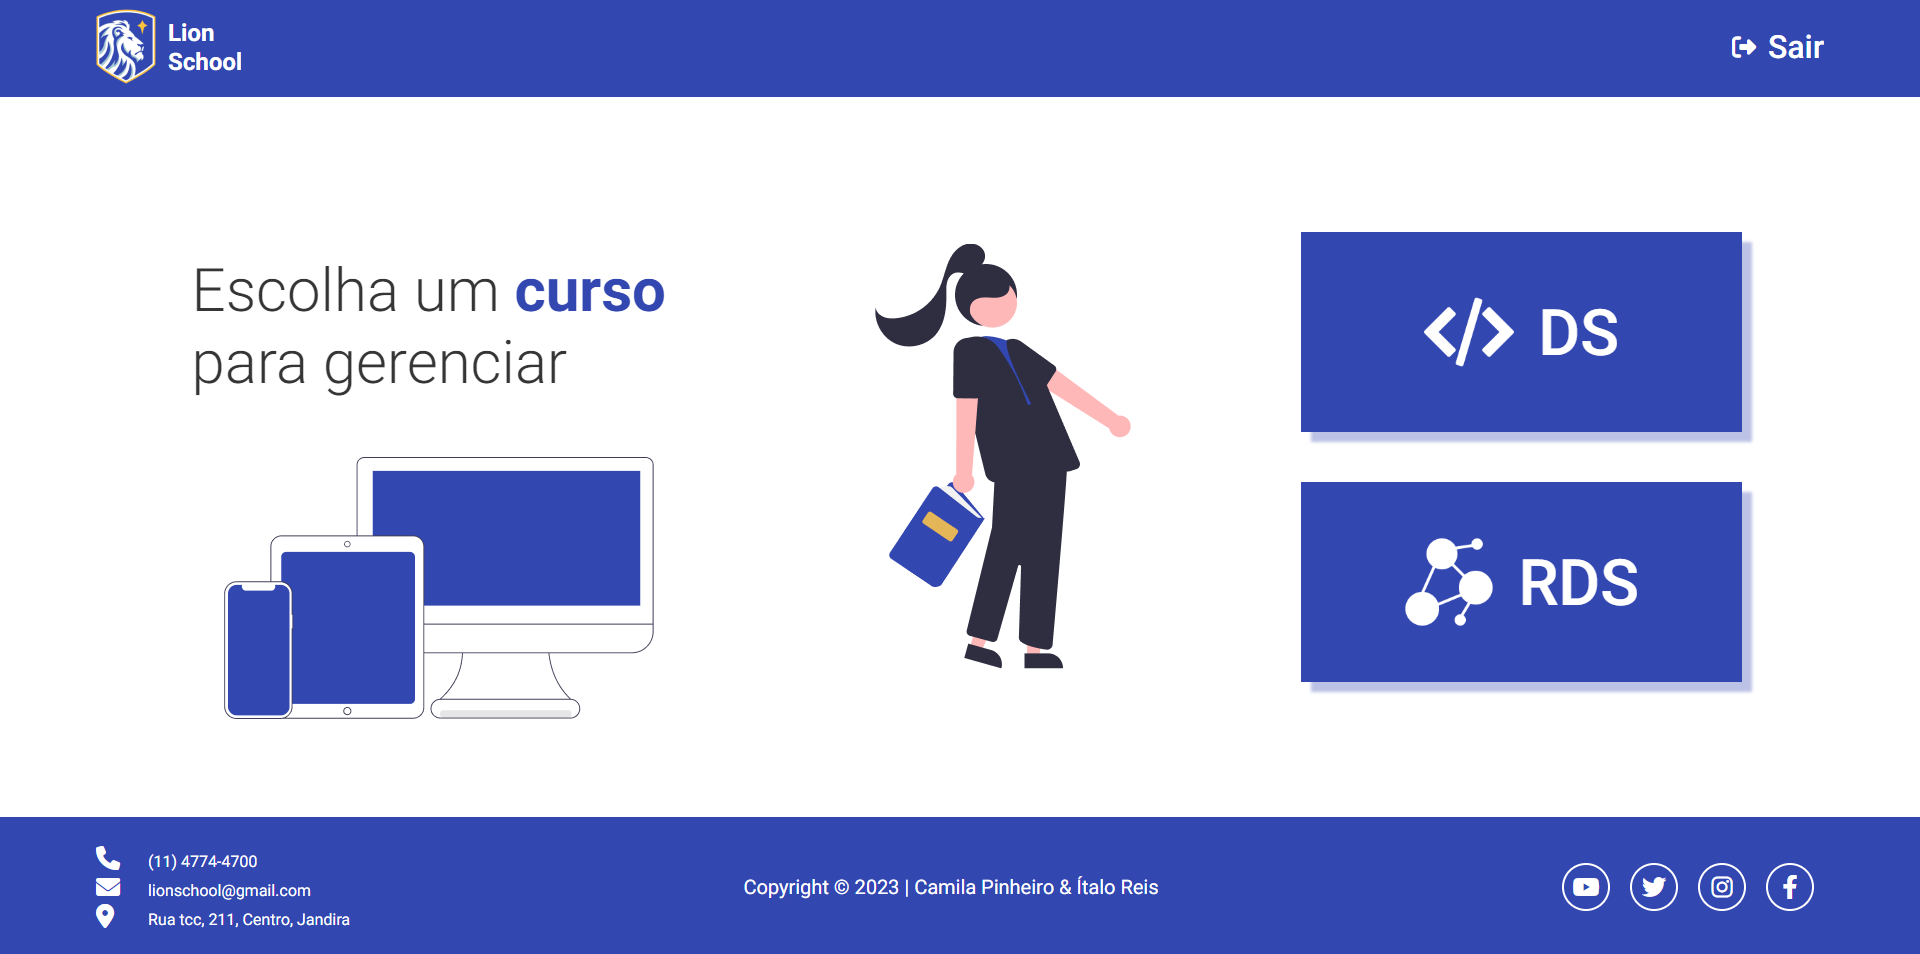
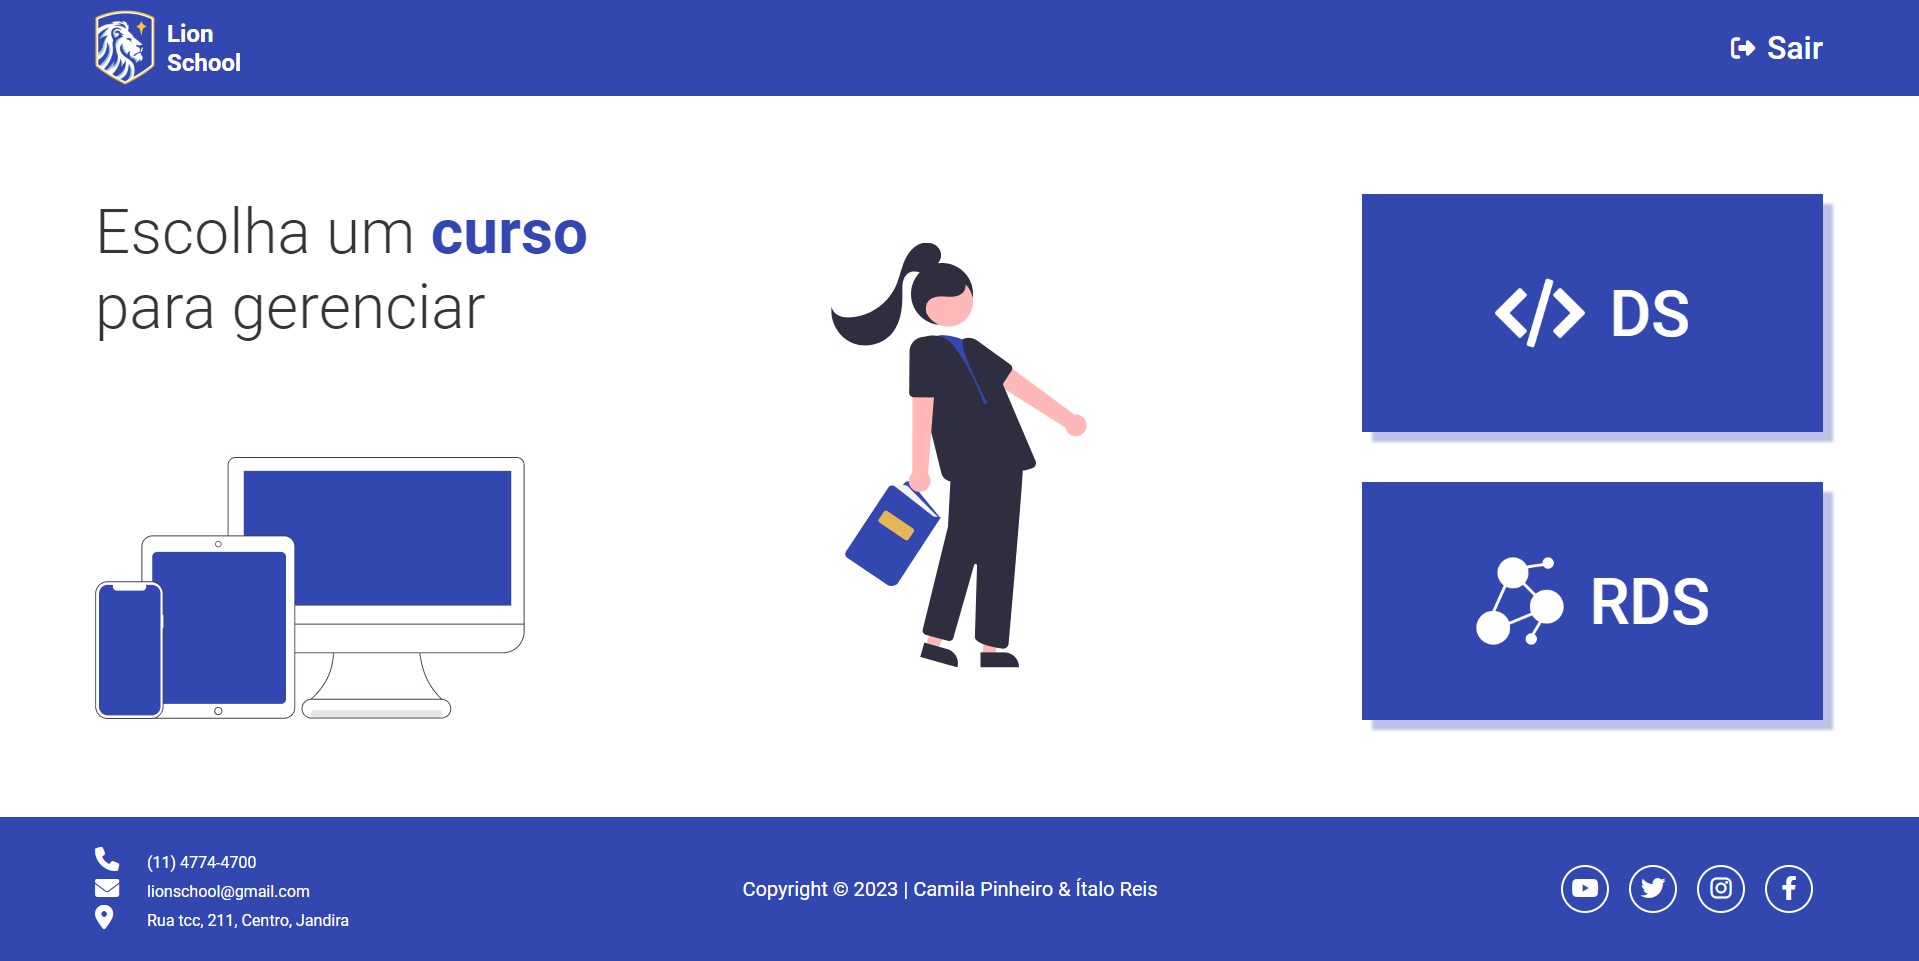
Ajustando main da página Home

diff --git a/Front-End/css/homeMain.css b/Front-End/css/homeMain.css
@@ -3,21 +3,23 @@ main{
     padding: 98px 96px;
     display: grid;
     place-items: center;
-    grid-template-columns: 40% 25% 35%;
+    grid-template-columns: 40% 20% 40%;
     grid-template-rows: 1fr 1fr;
     grid-template-areas:
      "title image2 card"
      "image1 image2 card";
+     justify-content: space-between;
 }
 
 .title{
     max-width: 500px;
+    grid-area: title;
+    place-self: start start;
 }
 
 .title h1{
-    grid-area: title;
     color: #353535;
-    font-size: 3.75rem;
+    font-size: 3.9rem;
     font-weight: 300;
 }
 
@@ -28,15 +30,18 @@ h1 span{
 
 .devices-image{
     grid-area: image1;
+    place-self: center start;
 }
 
 .student-image{
     grid-area: image2;
+    place-self: center center;
 }
 
 
 #buttons-options{
     grid-area: card;
+    place-self: start end;
     display: flex;
     flex-direction: column;
     flex-wrap: wrap;
@@ -44,8 +49,8 @@ h1 span{
 }
 
 button{
-    width: 23vw;
-    height: 200px;
+    width: 24vw;
+    height: 238px;
     background-color: var(--primary-color);
     border: none;
     transition: all 400ms ease-in-out;

diff --git a/Front-End/js/graphic.js b/Front-End/js/graphic.js
@@ -23,6 +23,7 @@ const graphicStudent = (dados) => {
     const spanDisciplines = document.createElement("span");
     spanDisciplines.classList.add("rotate");
     spanDisciplines.classList.add("span-bar");
+    spanDisciplines.classList.add("color-blue");
 
      const textSplit = dados.disciplinas[index].nome.split(" ");
      if (textSplit.length == 2) {
@@ -46,15 +47,15 @@ const graphicStudent = (dados) => {
     if (bar.value > 50) {
       bar.classList.add("progress-bar-blue");
       span.classList.add("color-blue");
-      spanDisciplines.classList.add("color-blue");
+     
     } else if (bar.value == 50) {
       bar.classList.add("progress-bar-yellow");
       span.classList.add("color-yellow");
-      spanDisciplines.classList.add("color-yellow");
+  
     } else if (bar.value < 50) {
       bar.classList.add("progress-bar-red");
       span.classList.add("color-red");
-      spanDisciplines.classList.add("color-red");
+    
     }
 
     contentBars.append(spanDisciplines, bar, span);

diff --git a/Front-End/css/studentMain.css b/Front-End/css/studentMain.css
@@ -3,7 +3,7 @@ main{
     padding: 100px 105px 60px 105px;
     display: flex;
     align-items: center;
-    justify-content: space-between;
+    justify-content: space-around; 
 
 }
 
